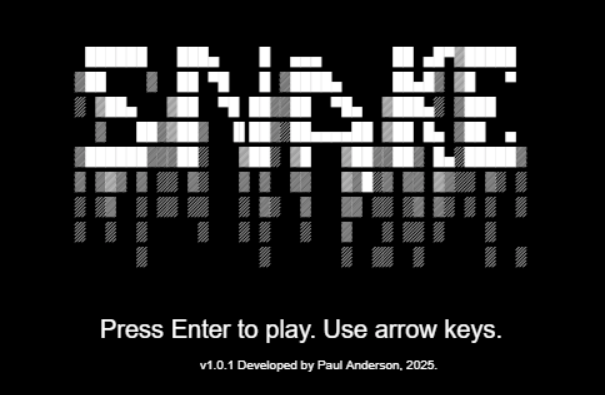
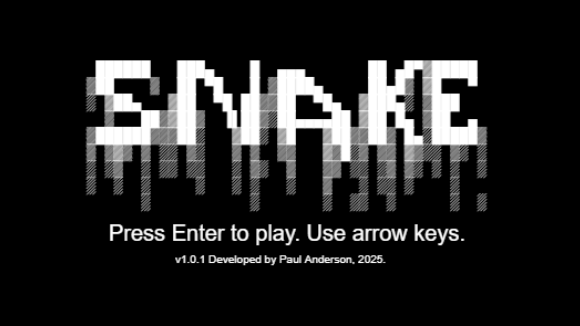
Updated graphics

Changed region(s): [[0.1241, 0.092, 0.869, 0.9509]]

diff --git a/source/assets/js/snake.js b/source/assets/js/snake.js
@@ -188,35 +188,39 @@ var jsSnake = jsSnake || {};
 
     function showGameOverScreen() {
         clearScreen();
-        ctx.font = "16px 'Cascadia Code', monospace";
+        ctx.font = "14px 'Cascadia Code', monospace";
         ctx.fillStyle = "white";
-        ctx.fillText(" ▄████   ▄▄▄      ███▄ ▄███▓ ▓█████     ▒█████   ██▒   █▓▓█████  ██▀███", 50, 100);
-        ctx.fillText(" ██▒ ▀█▒▒████▄    ▓██▒▀█▀ ██▒▓█   ▀    ▒██▒  ██▒▓██░   █▒▓█   ▀ ▓██ ▒ ██▒", 50, 120);
-        ctx.fillText("▒██░▄▄▄░▒██  ▀█▄  ▓██    ▓██░▒███      ▒██░  ██▒ ▓██  █▒░▒███   ▓██ ░▄█ ▒", 50, 140);
-        ctx.fillText("░▓█  ██▓░██▄▄▄▄██ ▒██    ▒██ ▒▓█  ▄    ▒██   ██░  ▒██ █░░▒▓█  ▄ ▒██▀▀█▄", 50, 160);
-        ctx.fillText("░▒▓███▀▒ ▓█   ▓██▒▒██▒   ░██▒░▒████▒   ░ ████▓▒░   ▒▀█░  ░▒████▒░██▓ ▒██▒", 50, 180);
-        ctx.fillText("Score: " + score, 340, 220);
-        ctx.fillText("Press Enter to play again.", 270, 260);
+        ctx.fillText(" ▄████   ▄▄▄      ███▄ ▄███▓ ▓█████     ▒█████   ██▒   █▓▓█████  ██▀███", canvas.width / 2 - 300, 100);
+        ctx.fillText(" ██▒ ▀█▒▒████▄    ▓██▒▀█▀ ██▒▓█   ▀    ▒██▒  ██▒▓██░   █▒▓█   ▀ ▓██ ▒ ██▒", canvas.width / 2 - 300, 115);
+        ctx.fillText("▒██░▄▄▄░▒██  ▀█▄  ▓██    ▓██░▒███      ▒██░  ██▒ ▓██  █▒░▒███   ▓██ ░▄█ ▒", canvas.width / 2 - 300, 130);
+        ctx.fillText("░▓█  ██▓░██▄▄▄▄██ ▒██    ▒██ ▒▓█  ▄    ▒██   ██░  ▒██ █░░▒▓█  ▄ ▒██▀▀█▄", canvas.width / 2 - 300, 145);
+        ctx.fillText("░▒▓███▀▒ ▓█   ▓██▒▒██▒   ░██▒░▒████▒   ░ ████▓▒░   ▒▀█░  ░▒████▒░██▓ ▒██▒", canvas.width / 2 - 300, 160);
+        ctx.fillText(" ░▒   ▒  ▒▒   ▓▒█░░ ▒░   ░  ░░░ ▒░ ░   ░ ▒░▒░▒░    ░ ▐░  ░░ ▒░ ░░ ▒▓ ░▒▓░", canvas.width / 2 - 300, 175);
+        ctx.fillText("  ░   ░   ▒   ▒▒ ░░  ░      ░ ░ ░  ░     ░ ▒ ▒░    ░ ░░   ░ ░  ░  ░▒ ░ ▒░", canvas.width / 2 - 300, 190);
+        ctx.fillText("░ ░   ░   ░   ▒   ░      ░      ░      ░ ░ ░ ▒       ░░     ░     ░░   ░ ", canvas.width / 2 - 300, 205);
+        ctx.fillText("      ░       ░  ░       ░      ░  ░       ░ ░        ░     ░  ░   ░     ", canvas.width / 2 - 300, 220);
+        ctx.fillText("Score: " + score, canvas.width / 2 - 30, 260);
+        ctx.fillText("Press Enter to play again.", canvas.width / 2 - 100, 280);
     }
 
     function showInitialMessage() {
         clearScreen();
         ctx.fillStyle = "white";
-        ctx.font = "14px 'Cascadia Code', monospace"; 
+        ctx.font = "14px 'Cascadia Code', monospace";
         ctx.fillStyle = "white";
-        ctx.fillText(" ██████   ███▄    █  ▄▄▄       ██ ▄█▀▓█████ ", canvas.width / 4, canvas.height / 2 - 80);
-        ctx.fillText("▒██    ▒  ██ ▀█   █ ▒████▄     ██▄█▒ ▓█   ▀ ", canvas.width / 4, canvas.height / 2 - 60);
-        ctx.fillText("░ ▓██▄   ▓██  ▀█ ██▒▒██  ▀█▄  ▓███▄░ ▒███   ", canvas.width / 4, canvas.height / 2 - 40);
-        ctx.fillText("  ▒   ██▒▓██▒  ▐▌██▒░██▄▄▄▄██ ▓██ █▄ ▒██  ▄ ", canvas.width / 4, canvas.height / 2 - 20);
-        ctx.fillText("▒██████▒▒▒██░   ▓██░ ▓█   ▓██▒▒██▒ █▄░█████▒", canvas.width / 4, canvas.height / 2);
-        ctx.fillText("▒ ▒▓▒ ▒ ░░ ▒░   ▒ ▒  ▒▒   ▓▒█░▒ ▒▒ ▓▒░░ ▒░ ░", canvas.width / 4, canvas.height / 2 + 20);
-        ctx.fillText("░ ░▒  ░ ░░ ░░   ░ ▒░  ▒   ▒▒ ░░ ░▒ ▒░ ░ ░  ░", canvas.width / 4, canvas.height / 2 + 40);
-        ctx.fillText("░  ░  ░     ░   ░ ░   ░   ▒   ░ ░░ ░    ░   ", canvas.width / 4, canvas.height / 2 + 60);
-        ctx.fillText("      ░           ░       ░  ░░  ░      ░  ░", canvas.width / 4, canvas.height / 2 + 80);
+        ctx.fillText(" ██████   ███▄    █  ▄▄▄       ██ ▄█▀▓█████ ", canvas.width / 2 - 180, 100);
+        ctx.fillText("▒██    ▒  ██ ▀█   █ ▒████▄     ██▄█▒ ▓█   ▀ ", canvas.width / 2 - 180, 115);
+        ctx.fillText("░ ▓██▄   ▓██  ▀█ ██▒▒██  ▀█▄  ▓███▄░ ▒███   ", canvas.width / 2 - 180, 130);
+        ctx.fillText("  ▒   ██▒▓██▒  ▐▌██▒░██▄▄▄▄██ ▓██ █▄ ▒██  ▄ ", canvas.width / 2 - 180, 145);
+        ctx.fillText("▒██████▒▒▒██░   ▓██░ ▓█   ▓██▒▒██▒ █▄░█████▒", canvas.width / 2 - 180, 160);
+        ctx.fillText("▒ ▒▓▒ ▒ ░░ ▒░   ▒ ▒  ▒▒   ▓▒█░▒ ▒▒ ▓▒░░ ▒░ ░", canvas.width / 2 - 180, 175);
+        ctx.fillText("░ ░▒  ░ ░░ ░░   ░ ▒░  ▒   ▒▒ ░░ ░▒ ▒░ ░ ░  ░", canvas.width / 2 - 180, 190);
+        ctx.fillText("░  ░  ░     ░   ░ ░   ░   ▒   ░ ░░ ░    ░   ", canvas.width / 2 - 180, 205);
+        ctx.fillText("      ░           ░       ░  ░░  ░      ░  ░", canvas.width / 2 - 180, 220);
         ctx.font = "20px Arial";
-        ctx.fillText("Press Enter to play. Use arrow keys.", canvas.width / 2 - 180, canvas.height / 2 + 140);
+        ctx.fillText("Press Enter to play. Use arrow keys.", canvas.width / 2 - 160, 250);
         ctx.font = "10px Arial";
-        ctx.fillText("v1.0.1 Developed by Paul Anderson, 2025.", canvas.width / 2 - 100, canvas.height / 2 + 165);
+        ctx.fillText("v1.0.1 Developed by Paul Anderson, 2025.", canvas.width / 2 - 100, 270);
     }
 
 })(jsSnake);
